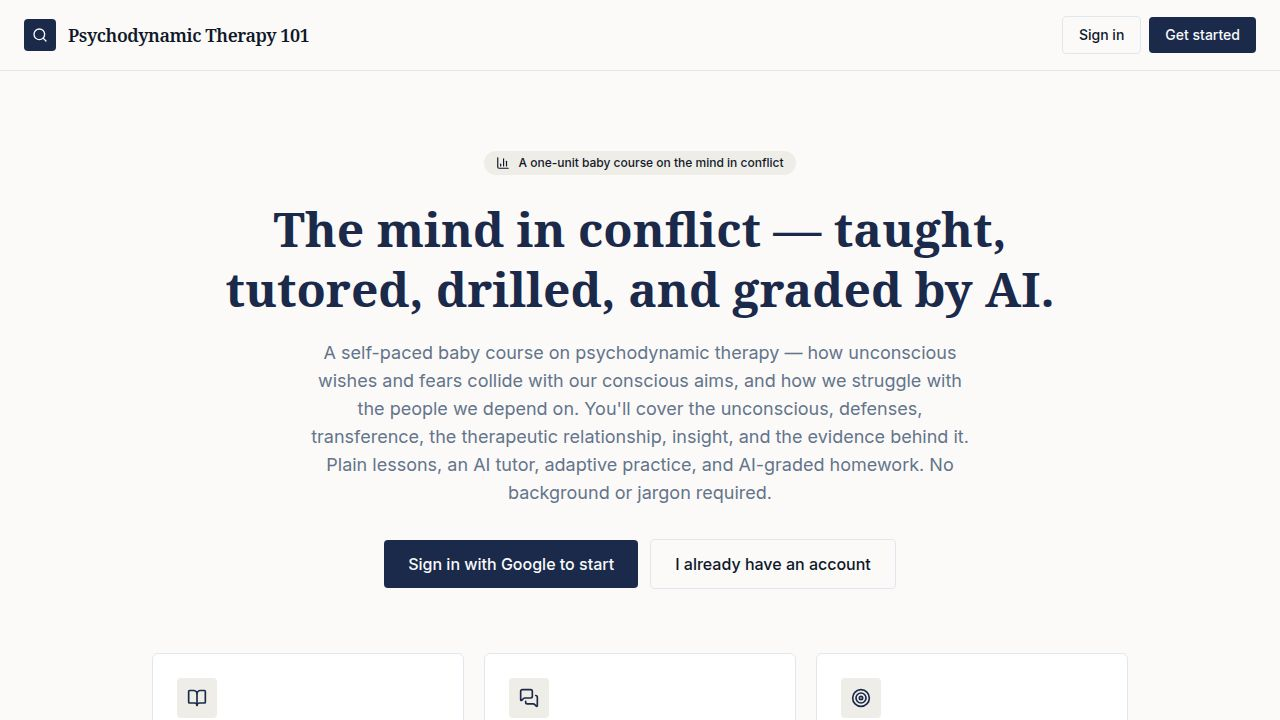
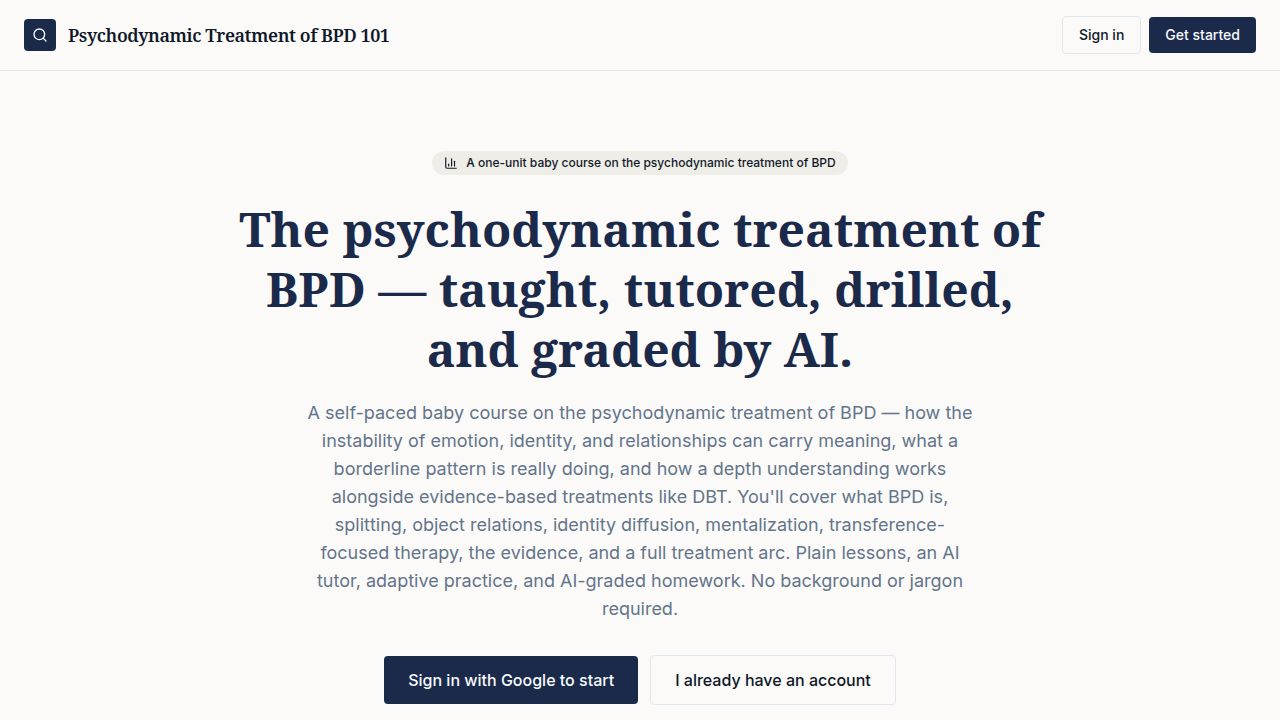
Update

diff --git a/artifacts/api-server/src/lib/homeworkContent/types.ts b/artifacts/api-server/src/lib/homeworkContent/types.ts
@@ -1,8 +1,8 @@
 // ---------------------------------------------------------------------------
-// Content types for the Psychodynamic Treatment of OCD 101 curriculum.
+// Content types for the Psychodynamic Treatment of BPD 101 curriculum.
 //
 // This course grades reasoning on an INVERTED scale: it rewards drawing the
-// STRONGEST interpretation about the hidden function or conflict beneath the OCD symptom
+// STRONGEST interpretation about the hidden function or conflict beneath the symptom or behavior in BPD
 // that a body of evidence supports. Grading is therefore INVERTED relative to a normal test:
 //   - The richest, most-falsifiable, most-committed model earns TOP credit.
 //   - The cautious "you can't really conclude that" dodge earns NEAR-ZERO.

diff --git a/artifacts/api-server/src/lib/homeworkContent/index.ts b/artifacts/api-server/src/lib/homeworkContent/index.ts
@@ -1,4 +1,4 @@
-// Aggregated Psychodynamic Treatment of OCD 101 curriculum content.
+// Aggregated Psychodynamic Treatment of BPD 101 curriculum content.
 // Each section provides one lecture plus its homework authored in all three
 // answer formats (15 MC / 9 hybrid / 5 written). The seed flattens these into
 // topics, lectures, and one homework assignment per section.